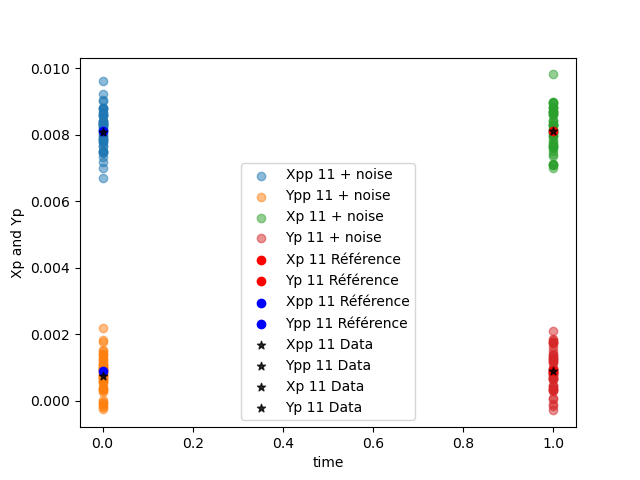
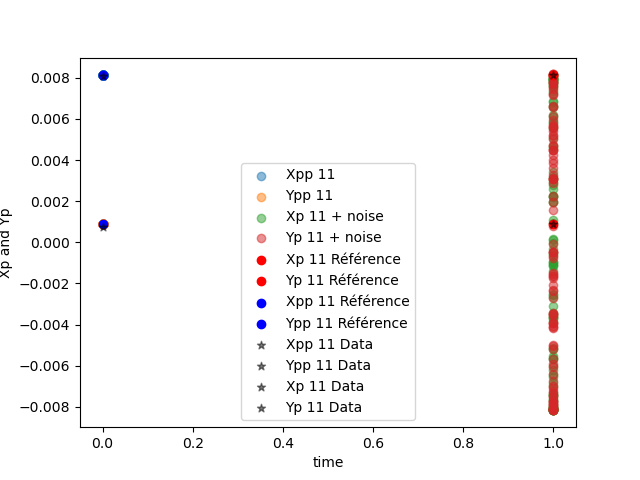
tester les paramètres du papier

diff --git a/KF/enKF_as_paper.py b/KF/enKF_as_paper.py
@@ -6,16 +6,6 @@ from goy import GoyModel
 
 
 
-# plt.plot(time,X2[:,0], 'gray',label='Mode 1',alpha=0.5)
-# plt.plot(time,X2[:,1], 'gray',label='Mode 2',alpha=0.5)
-# plt.plot(time,X2[:,2], 'gray',label='Mode 3',alpha=0.5)
-# plt.plot(time,X2[:,3], 'black',label='Mode 4 Forcing',alpha=1)
-# plt.plot(time,X2[:,5], 'gray',label='Mode 6',alpha=0.5)
-# plt.plot(time,X2[:,7], 'gray',label='Mode 8',alpha=0.5)
-# plt.plot(time,X2[:,9], 'gray',label='Mode 10',alpha=0.5)
-# plt.savefig(r"/home/s26calme/Documents/code_stage/KF/c_encapsulate")
-
-
 def filter_mode(X,mode_min:int,mode_max:int,t_min:int,ratio:float,seed):
     
     np.random.seed(seed=seed)
@@ -59,25 +49,6 @@ def filter_mode(X,mode_min:int,mode_max:int,t_min:int,ratio:float,seed):
     return X_filtered,X_dataset,mean_mode,var_mode,std_mode,pourcentage_filtered#,Y
 
 
-def reduced_center(X,mean,std):
-    for k in range(X.shape[1]):
-        X[:,k]= (X[:,k]-mean[k])/std[k]
-    return X
-
-# etape 1
-# filter doit sortir une matrice des Uk,t donc transposé de ce qu'il il ya maintement et de meme taille que data_shell avec des nan pour les valeurs non sélectionnées
-
-# etape 2 
-# écrire la matrice H pour les observations on prend les modes 5,6,7,8,9,10
-
-#etape 3 
-# écrire la fonction m qui met a jour le modèle dynamique des shells avec equatioons différentes pour les modes 1,2
-# et les modes 9 et 10. le schéma d'intégration doit être Adam bashforth 2
-
-# étape 4
-# implémenter l'enKF avec les fonctions m et H écrites précédement et tester l'enKF
-# utiliser l'algo d'optimisation de la variance pour trouver les meilleurs var_Q et var_R
-# comparer réultats des enKF 
 
 
 
@@ -93,8 +64,8 @@ Data_shell = data[debut:Nmax,:] # on garde  partie réelle de chaque shell
 Npts = np.shape(Data_shell)[0] # nombre de pas dans le temps
 
 # nb of shells selected for training the PINN on collocatin point
-k_min_collocation = 4 
-k_max_collocation = 10 
+k_min_collocation = 6 
+k_max_collocation = 8 
 
 #nb of shells for training on boundary conditions
 k_bc_min = 0
@@ -109,8 +80,19 @@ Data_filtered, Data_train, mean, Var_mode, Std_mode, perc= filter_mode(Data_shel
 
 K = np.array([k0*lmb**i for i in range(22)],dtype=np.float32)
 
+#########################
+#       calcul Tn       #
+#########################
 
-
+Tn = np.zeros(22)
+for n in range(22):
+    Tn[n] = 1/(K[n]*np.sqrt(np.mean(Data_shell[:,2*n]**2 + Data_shell[:,2*n+1]**2))) # énergie de chaque shell dans les données
+plt.figure()
+plt.plot(Tn,'*')
+plt.xlabel('Shell number')
+plt.ylabel('Turnover time')
+plt.show()
+print("Turnover times:",min(Tn),max(Tn))
 # for i in range(np.shape(y_obs)[0]):
 #     plt.figure()
 #     plt.plot(y_obs[i,:],'*')
@@ -124,13 +106,13 @@ MS = np.array([(0.05**2)*np.mean(shell_array[:,k]**2 ) for k in range(0,44,2)])
 
 ### parameters
 n     = 44 # state size  on veut estimer les Un de 1 à 22 avec Re et Im donc 44 variables d'état
-p     = 12 # On observe Un n=5,6,7,8,9,10 avec Re et Im donc 12 variables d'observations 
+p     = 6 # On observe Un n=5,6,7,8,9,10 avec Re et Im donc 12 variables d'observations 
 nb    = Npts # number of times
 time  = np.array(range(nb)) # time vector
 var_Q = 0.0 # error variance of the model (in Kalman)
 var_R = 0.1 # error variance of the observations (in Kalman)
-#x_0   = np.zeros((n)) # initial coundition (mean)
-x_0   = np.zeros(n)#Data_shell[0,:] # initial coundition (mean) = première ligne du jeu de données
+x_0   = np.zeros((n)) # initial coundition (mean)
+#x_0   = Data_shell[0,:] # initial coundition (mean) 
 P_0   = np.eye(n,n) # initial coundition (covariance)
 for i in range(22):
     P_0[2*i,2*i] = MS[i]
@@ -169,55 +151,6 @@ a = y_obs_.copy()
 #     plt.legend(fontsize=20)
 #     plt.savefig(SAVE + f"fig{i}enKF")
 
-
-
-# ### true state and noisy observations
-# x = c_[x1, x2, x1_dot, x2_dot].T # true state
-# y = c_[x1, x2].T + randn(p,nb) # noisy observations
-
-
-### nonlinear and linear operators of the state-space model
-def NL(x_past_real,x_past_imag):
-    
-    eps = 0.5
-    lmb = 2.0
-    n = np.shape(x_past_real)[0]
-    NL_re = np.zeros(n)
-    NL_im = np.zeros(n)    
-    
-    NL_re[0] = x_past_real[2]*x_past_imag[1] + x_past_imag[2]*x_past_real[1]
-    NL_re[1] = x_past_real[3]*x_past_imag[2] + x_past_imag[3]*x_past_real[2] - (eps/lmb)*K[1]*(x_past_real[0]*x_past_imag[2] + x_past_imag[0]*x_past_real[2])
-
-    NL_im[0] = x_past_real[2]*x_past_real[1] - x_past_imag[2]*x_past_imag[1]
-    NL_im[1] = x_past_real[3]*x_past_real[2] - x_past_imag[3]*x_past_imag[2] - (eps/lmb)*K[1]*(x_past_real[0]*x_past_real[2] - x_past_imag[0]*x_past_imag[2])
-
-    for i in range(2,n-2):
-        NL_im[i]  =  K[i]*(x_past_real[i+1]*x_past_imag[i+2] + x_past_imag[i+1]*x_past_real[i+2]) 
-
-        -K[i]*(eps/lmb)*(x_past_real[i-1]*x_past_imag[i+1] + x_past_imag[i-1]*x_past_real[i+1]) 
-                
-        + K[i]*((eps-1)/lmb**2)*(x_past_real[i-2]*x_past_imag[i-1] + x_past_imag[i-2]*x_past_real[i-1])
-
-        
-
-        NL_re[i] = K[i]*(x_past_real[i+1]*x_past_real[i+2] - x_past_imag[i+1]*x_past_imag[i+2]) 
-        
-        -K[i]*(eps/lmb)*(x_past_real[i-1]*x_past_real[i+1] - x_past_imag[i-1]*x_past_imag[i+1]) 
-            
-        + K[i]*((eps-1)/lmb**2)*(x_past_real[i-2]*x_past_real[i-1] - x_past_imag[i-2]*x_past_imag[i-1]) 
-
-    NL_re[n-2] = -(eps/lmb)*K[n-2]*(x_past_real[n-3]*x_past_imag[n-1] + x_past_imag[n-3]*x_past_real[n-1])  
-    + K[n-2]*((eps-1)/lmb**2)*(x_past_real[n-4]*x_past_imag[n-3] + x_past_imag[n-4]*x_past_real[n-3])
-    
-    NL_re[n-1] = K[n-1]*((eps-1)/lmb**2)*(x_past_real[n-3]*x_past_imag[n-2] + x_past_imag[n-3]*x_past_real[n-2])
-    
-    NL_im[n-2] = -(eps/lmb)*K[n-2]*(x_past_real[n-3]*x_past_real[n-1] + x_past_imag[n-3]*x_past_imag[n-1])
-    + K[n-2]*((eps-1)/lmb**2)*(x_past_real[n-4]*x_past_real[n-3] + x_past_imag[n-4]*x_past_imag[n-3])
-
-    NL_im[n-1] = K[n-1]*((eps-1)/lmb**2)*(x_past_real[n-3]*x_past_real[n-2] - x_past_imag[n-3]*x_past_imag[n-2])
-
-
-    return NL_re, NL_im
 
 
 ######### paramètres du modèle pour l'intégration #############################
@@ -334,11 +267,11 @@ def generate_observations(p, H):
     return y, R
 
 H = np.eye(44,44) #array([[1,0,0,0], [0,1,0,0]])
-H = H[2*k_min_collocation:2*k_max_collocation,:] # on observe que les modes de 5 à 10 avec Re et Im donc 12 variables d'observations
+H = H[2*(k_min_collocation-1):2*k_max_collocation,:] # on observe que les modes de 5 à 10 avec Re et Im donc 12 variables d'observations
 
 i_nan = np.random.choice(Npts, size=int(0.8*Npts), replace=False) # indices des observations à supprimer
 
-y_obs = H @ Data_shell.T + np.random.multivariate_normal(np.zeros(p),R,size=(Npts,)).T
+y_obs = H @ Data_shell.T + np.random.multivariate_normal(np.zeros(p),R,size=(Npts,)).T # vrai observation 
 #y_obs[:,i_nan] = y_obs[:,i_nan]*np.nan
 
 # tiré des temps au hasard pour enlever des observations 
@@ -382,26 +315,29 @@ fens_Yp  = np.zeros((Ne, int(n/2)))
 
 # condition initiales
 j_start = 2
-
+# on récupère les etats à t-2 et t-1 après intégration du modèles avec AB sur 999 pas pour avoir une précision machine et on ajoute du bruit gaussien pour initialiser les ensembles
 (cur_Xpp, cur_Ypp), (cur_Xp, cur_Yp) = model.integrate(
     Data_shell[j_start-2, 0::2], Data_shell[j_start-2, 1::2],
     Data_shell[j_start-1, 0::2], Data_shell[j_start-1, 1::2],
-    n_steps=N_fs - 1)
-(ref_Xpp, ref_Ypp), (ref_Xp, ref_Yp) = model.integrate(
-    cur_Xpp, cur_Ypp, cur_Xp, cur_Yp, n_steps=1)
+    n_steps=N_fs)
+# (ref_Xpp, ref_Ypp), (ref_Xp, ref_Yp) = model.integrate(
+#     cur_Xpp, cur_Ypp, cur_Xp, cur_Yp, n_steps=1)
 
 
 amp = np.std(Data_shell, axis=0)
 
-nb = 3000
+nb = 100
+# initialisation de l'ensemble 
 for i in range(Ne):
-    x_a_enkf_tmp[:,i] = np.random.multivariate_normal(x_0, P_0)
+    #x_a_enkf_tmp[:,i] = np.random.multivariate_normal(x_0, P_0)
     
     #noise = np.random.randn(n) * amp * 0.01   # perturbation 1%
-    ens_Xpp[i] = ref_Xpp + np.random.multivariate_normal(x_0, P_0)[0::2] #+ noise[0::2] * 0.1  # Xpp varie peu
-    ens_Ypp[i] = ref_Ypp + np.random.multivariate_normal(x_0, P_0)[1::2] #+ noise[1::2] * 0.1
-    ens_Xp[i]  = ref_Xp  + np.random.multivariate_normal(x_0, P_0)[0::2] #+ noise[0::2]
-    ens_Yp[i]  = ref_Yp  + np.random.multivariate_normal(x_0, P_0)[1::2] #+ noise[1::2]
+    ens_Xpp[i] = cur_Xpp #+ np.random.multivariate_normal(x_0, P_0)[0::2] #+ noise[0::2] * 0.1  # Xpp varie peu
+    ens_Ypp[i] = cur_Ypp #+ np.random.multivariate_normal(x_0, P_0)[1::2] #+ noise[1::2] * 0.1
+    ens_Xp[i]  = cur_Xp  + np.random.multivariate_normal(x_0, P_0)[0::2] #np.sqrt(cur_Xp**2 + cur_Yp**2)*np.cos(np.random.random()*2*np.pi)  #
+    ens_Yp[i]  = cur_Yp + np.random.multivariate_normal(x_0, P_0)[1::2] #np.sqrt(cur_Xp**2 + cur_Yp**2)*np.sin(np.random.random()*2*np.pi) #
+    x_a_enkf_tmp[0::2,i] = ens_Xp[i].T
+    x_a_enkf_tmp[1::2,i] = ens_Yp[i].T
 
 x_a_enkf[:,0]   = np.mean(x_a_enkf_tmp,1) # initial state
 P_a_enkf[:,:,0] = np.cov(x_a_enkf_tmp)    # initial state covariance
@@ -409,24 +345,24 @@ P_a_enkf[:,:,0] = np.cov(x_a_enkf_tmp)    # initial state covariance
 # for j in range(22):
 #     plt.figure()
     
-#     plt.scatter(np.zeros(Ne),ens_Xpp[:,j],alpha=0.5,label=f'Xpp {j} + noise')
-#     plt.scatter(np.zeros(Ne),ens_Ypp[:,j],alpha=0.5,label=f'Ypp {j} + noise')
+#     plt.scatter(np.zeros(Ne),ens_Xpp[:,j],alpha=0.5,label=f'Xpp {j} ')
+#     plt.scatter(np.zeros(Ne),ens_Ypp[:,j],alpha=0.5,label=f'Ypp {j} ')
 #     plt.scatter(np.ones(Ne),ens_Xp[:,j],alpha=0.5,label=f'Xp {j} + noise')
 #     plt.scatter(np.ones(Ne),ens_Yp[:,j],alpha=0.5,label=f'Yp {j} + noise')
-#     plt.scatter(1,ref_Xp[j],color='red',label=f'Xp {j} Référence')
-#     plt.scatter(1,ref_Yp[j],color='red',label=f'Yp {j} Référence')
-#     plt.scatter(0,ref_Xpp[j],color='blue',label=f'Xpp {j} Référence')
-#     plt.scatter(0,ref_Ypp[j],color='blue',label=f'Ypp {j} Référence')
-#     plt.scatter(0,Data_shell[j_start-1, 2*(j)],marker='*',alpha= 0.8,color='black',label=f'Xpp {j} Data')
-#     plt.scatter(0,Data_shell[j_start-1, 2*(j)+1],marker='*',alpha= 0.8,color='black',label=f'Ypp {j} Data')
-#     plt.scatter(1,Data_shell[j_start, 2*(j)],marker='*',alpha= 0.8,color='black',label=f'Xp {j} Data')
-#     plt.scatter(1,Data_shell[j_start, 2*(j)+1],marker='*',alpha= 0.8,color='black',label=f'Yp {j} Data')    
+#     plt.scatter(1,cur_Xp[j],color='red',label=f'Xp {j} Référence')
+#     plt.scatter(1,cur_Yp[j],color='red',label=f'Yp {j} Référence')
+#     plt.scatter(0,cur_Xpp[j],color='blue',label=f'Xpp {j} Référence')
+#     plt.scatter(0,cur_Ypp[j],color='blue',label=f'Ypp {j} Référence')
+#     plt.scatter(0,Data_shell[j_start-1, 2*(j)],marker='*',alpha= 0.5,color='black',label=f'Xpp {j} Data')
+#     plt.scatter(0,Data_shell[j_start-1, 2*(j)+1],marker='*',alpha= 0.5,color='black',label=f'Ypp {j} Data')
+#     plt.scatter(1,Data_shell[j_start, 2*(j)],marker='*',alpha= 0.5,color='black',label=f'Xp {j} Data')
+#     plt.scatter(1,Data_shell[j_start, 2*(j)+1],marker='*',alpha= 0.5,color='black',label=f'Yp {j} Data')    
 #     plt.xlabel('time')
 #     plt.ylabel('Xp and Yp')
 #     plt.legend()
 #     plt.savefig(SAVE + f"xy_start_enKF_{j}")
 lmb = 0.2
-g = np.zeros(n)
+g = np.zeros((n,nb))
 for k in tqdm.tqdm(range(nb)): # forward in time #nb
     # prediction step
     # il faut un initialisation custom pour chaque Ne
@@ -439,16 +375,21 @@ for k in tqdm.tqdm(range(nb)): # forward in time #nb
         fens_Xp[i]  = Xp_n
         fens_Yp[i]  = Yp_n
 
-        x_f_enkf_tmp[0::2,i] = Xp_n.T
+        x_f_enkf_tmp[0::2,i] = Xp_n.T # forward sans bruit du modèle, on suppose que le modèle est parfait
         x_f_enkf_tmp[1::2,i] = Yp_n.T
 
         #_,_,forward_x,forward_y  = m_b(x_a_enkf_tmp[:,i].T,N_fs=999,n_steps_first=998,custom=True)
         #x_f_enkf_tmp[0::2,i],x_f_enkf_tmp[1::2,i] = forward_x.T,forward_y.T ### A CACHER
         # Modèle supposé parfait ==> pas de bruit du modèle
         #x_f_enkf_tmp[:,i] += np.random.multivariate_normal(np.zeros(n), Q)
-
-        y_f_enkf_tmp[:,i] = H @ x_f_enkf_tmp[:,i] - np.random.multivariate_normal(np.zeros(p), R) ### A CACHER
+                                            # c'est un moins dans le papier à verifier
+        y_f_enkf_tmp[:,i] = H @ x_f_enkf_tmp[:,i] + np.random.multivariate_normal(np.zeros(p), R) ### A CACHER
     
+    ens_Xpp = fens_Xpp
+    ens_Ypp = fens_Ypp
+    ens_Xp  = fens_Xp
+    ens_Yp  = fens_Yp
+
     P_f_enkf_tmp = np.cov(x_f_enkf_tmp) ### A CACHER
     # Kalman gain
     
@@ -460,15 +401,15 @@ for k in tqdm.tqdm(range(nb)): # forward in time #nb
         P_a_enkf_tmp = np.cov(x_a_enkf_tmp) ### A CACHER
         
         # inflation multiplicative
-        P_a_tilde = (np.eye(n) - K_g @ H) @ P_f_enkf_tmp ### A CACHER
+        #P_a_tilde = (np.eye(n) - K_g @ H) @ P_f_enkf_tmp ### A CACHER
         mu_n = np.mean(x_a_enkf_tmp, axis=1) ### A CACHER
 
         for j in range(n):
-                g[j] = max(1,1+lmb*(P_a_enkf_tmp[j,j]-P_a_tilde[j,j])/P_a_enkf_tmp[j,j]) # terme d'inflation multiplicative pour chaque variable d'état ### A CACHER
+                g[j,k] = max(1,1+lmb*(P_f_enkf_tmp[j,j]-P_a_enkf_tmp[j,j])/P_f_enkf_tmp[j,j]) # terme d'inflation multiplicative pour chaque variable d'état ### A CACHER
         
         x_f_enkf[:,k]   = np.mean(x_f_enkf_tmp,1)
         P_f_enkf[:,:,k] = P_f_enkf_tmp
-        x_a_enkf[:,k]   = g*np.mean(x_a_enkf_tmp,1) + (1-g)*mu_n
+        x_a_enkf[:,k]   = g[:,k]*np.mean(x_a_enkf_tmp,1) + (1-g[:,k])*mu_n # g*  + (1-g)*mu_n
         P_a_enkf[:,:,k] = P_a_enkf_tmp
         # U_tilde = g*U_tilde + (1-g)*mu_n[:,None] 
 
@@ -484,26 +425,32 @@ for k in tqdm.tqdm(range(nb)): # forward in time #nb
 
 
 ### plot trajectories (true, observed, KF, EnKF)
-for i in range(44):
-    if (i>=8) and (i<20):
+for i in range(N-9):
+    if (i>=k_min_collocation-1) and (i<k_max_collocation):
         plt.figure()
-        plt.fill_between(time[0:nb], x_a_enkf[i,0:nb] - 1.96*np.sqrt(P_a_enkf[i,i,0:nb]), x_a_enkf[i,0:nb] + 1.96*np.sqrt(P_a_enkf[i,i,0:nb]), facecolor='red', alpha=0.4)
+        plt.fill_between(time[0:nb], x_a_enkf[2*i,0:nb] - 1.96*np.sqrt(P_a_enkf[2*i,2*i,0:nb]), x_a_enkf[2*i,0:nb] + 1.96*np.sqrt(P_a_enkf[2*i,2*i,0:nb]), facecolor='red', alpha=0.4)
         
-        plt.plot(y_obs[i-8,0:nb], '.k',alpha=0.3, label=f'Observations ($y {i}$)')
-        plt.plot(x_a_enkf[i,0:nb], 'r', label=f'EnKF ($x^a {i}$)')
-        plt.plot(Data_shell.T[i,0:nb], 'b', label=f'True state ($x {i}$)')
+        plt.plot(y_obs[2*i-2*(k_min_collocation-1),0:nb], '.k',alpha=0.3, label=f'Observations ($y {i+1}$)')
+        plt.plot(x_a_enkf[2*i,0:nb], 'r', label=f'EnKF ($U^a {i+1}$)')
+        plt.plot(Data_shell.T[2*i,j_start:nb+j_start], 'b', label=f'True state ($U_{i+1}$)')
         plt.xlabel('$time$')
-        plt.ylabel('$U_8')
+        plt.ylabel(f'$\Re(U_{i+1})$')
         plt.legend()
         #plt.savefig(SAVE + f"fig1enKF_{i}")
     else:
         plt.figure()
-        plt.fill_between(time[0:nb], x_a_enkf[i,0:nb] - 1.96*np.sqrt(P_a_enkf[i,i,0:nb]), x_a_enkf[i,0:nb] + 1.96*np.sqrt(P_a_enkf[i,i,0:nb]), facecolor='red', alpha=0.4)
-        plt.plot(x_a_enkf[i,0:nb], 'r', label=f'EnKF ($x^a {i}$)')
-        plt.plot(Data_shell.T[i,0:nb], 'b', label=f'True state ($x {i}$)')
+        plt.fill_between(time[0:nb], x_a_enkf[2*i,0:nb] - 1.96*np.sqrt(P_a_enkf[2*i,2*i,0:nb]), x_a_enkf[2*i,0:nb] + 1.96*np.sqrt(P_a_enkf[2*i,2*i,0:nb]), facecolor='red', alpha=0.4)
+        plt.plot(x_a_enkf[2*i,0:nb], 'r', label=f'EnKF ($U^a {i+1}$)')
+        plt.plot(Data_shell.T[2*i,j_start:nb+j_start], 'b', label=f'True state ($U_{i+1}$)')
         plt.xlabel('$time$')
-        plt.ylabel(f'$U_{i//2}$')
+        plt.ylabel(f'$ \Re(U_{i+1})$')
         plt.legend()
+    
+    # plt.figure()
+    # plt.plot(time[0:nb],g[i,0:nb],label=f'inflation factor g for variable $U_{i//2}$')
+    # plt.xlabel('time')
+    # plt.ylabel('g')
+    # plt.legend()
         #plt.savefig(SAVE + f"fig1enKF_{i}")
 plt.show()
 
@@ -521,5 +468,5 @@ plt.show()
 #     plt.ylabel(y_label[i-4], size=20)
 # plt.savefig(SAVE + "fig2enKF")
 ### compute Root Mean Squared Errors (RMSE) of the positions
-print('RMSE(obs):', np.sqrt(np.mean((y_obs[range(4,9),0:nb] - Data_shell.T[range(4,9),0:nb])**2))) ### A CACHER
-print('RMSE(EnKF):', np.sqrt(np.mean((x_a_enkf[range(4,9),0:nb] - Data_shell.T[range(4,9),0:nb])**2))) ### A CACHER
+print('RMSE(obs):', np.sqrt(np.mean((y_obs[:,0:nb] - Data_shell.T[range(2*(k_min_collocation-1),2*k_max_collocation,1),0:nb])**2))) ### A CACHER
+print('RMSE(EnKF):', np.sqrt(np.mean((x_a_enkf[:,0:nb] - Data_shell.T[:,0:nb])**2))) 
